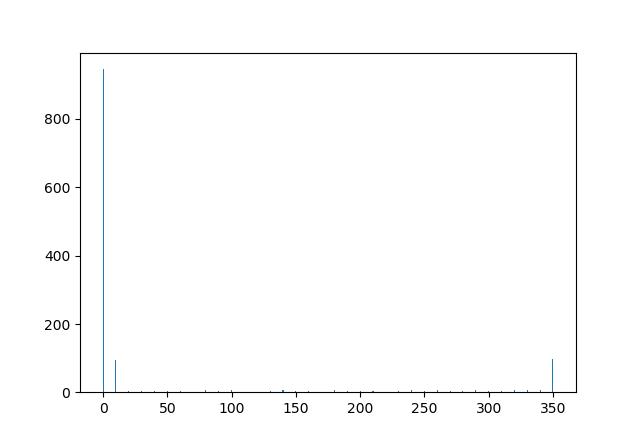
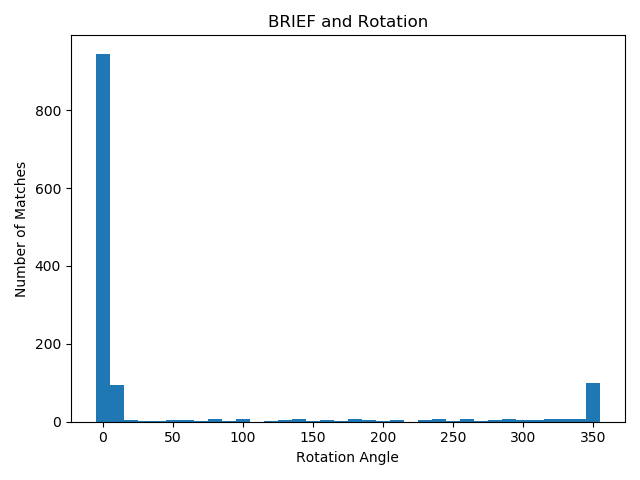
hw2_update

Changed region(s): [[0.0, 0.0295, 0.9688, 0.9728], [0.875, 0.1179, 0.9062, 0.1474]]

diff --git a/hw2/python/planarH.py b/hw2/python/planarH.py
@@ -17,24 +17,6 @@ def computeH(x1, x2):
 	return H2to1
 
 
-# def computeH(x1, x2):
-# 	# Q2.2.1
-# 	# Compute the homography between two sets of points
-#
-# 	assert (x1.shape[0] == x2.shape[0])
-# 	assert (x1.shape[1] == 2)
-#
-# 	A = []
-# 	for i in range(x1.shape[0]):
-# 		A.append(np.array([-x2[i, 0], -x2[i, 1], -1, 0, 0, 0, x1[i, 0] * x2[i, 0], x1[i, 0] * x2[i, 1], x1[i, 0]]))
-# 		A.append(np.array([0, 0, 0, -x2[i, 0], -x2[i, 1], -1, x1[i, 1] * x2[i, 0], x1[i, 1] * x2[i, 1], x1[i, 1]]))
-#
-# 	U, S, V = np.linalg.svd(np.asarray(A))
-# 	H2to1 = V[-1, :].reshape(3, 3) / V[-1, -1]
-#
-# 	return H2to1
-
-
 def computeH_norm(x1, x2):
 	#Q2.2.2
 	#Compute the centroid of the points
@@ -117,7 +99,7 @@ def computeH_ransac(locs1, locs2, opts):
 		diff = locs1 - non_homogeneous
 		normalized = np.sqrt(np.sum(diff**2, axis=1))
 		inlier = normalized <= inlier_tol
-		# for loop method
+		## for loop method
 		# for p in range(N):
 		# 	locs2_p = np.concatenate((locs2[p], [1]))
 		# 	projected = H2to1 @ locs2_p

diff --git a/hw2/python/opts.py b/hw2/python/opts.py
@@ -19,7 +19,7 @@ def get_opts():
                         help='ratio for BRIEF feature descriptor')
 
     ## Ransac (requires tuning)
-    parser.add_argument('--max_iters', type=int, default=50,
+    parser.add_argument('--max_iters', type=int, default=500,
                         help='the number of iterations to run RANSAC for')
     parser.add_argument('--inlier_tol', type=float, default=2.0,
                         help='the tolerance value for considering a point to be an inlier')

diff --git a/hw2/python/briefRotTest.py b/hw2/python/briefRotTest.py
@@ -21,9 +21,14 @@ for i in range(36):
     #Update histogram
     histogram[i] = matches.shape[0]
     angles[i] = 10*i
+    if i == 1 or i == 9 or i == 18:
+        plotMatches(cv_cover, rotated, matches, locs1, locs2)
     print(histogram)
     print(i)
 
 #Display histogram
-plt.bar(angles, histogram)
+plt.bar(angles, histogram, width=10, align='center')
+plt.xlabel('Rotation Angle')
+plt.ylabel('Number of Matches')
+plt.title('BRIEF and Rotation')
 plt.show()
